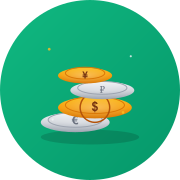
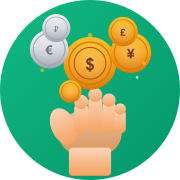
Rebrand aplikacije u "Troškić" sa novom ikonom
- Promenjen naziv aplikacije iz "Cost Tracker" u "Troškić"
- Ažuriran title tag u index.html
- Ažurirani PWA manifest sa novim nazivom
- Ažuriran naslov u App.vue
- Nova ikona: ruka koja prima/daje novčiće
- Regenerisane sve PNG verzije ikone (64x64, 192x192, 512x512, maskable, apple-touch)
- Ikona sada popunjava ceo prostor sa rukom i lebdećim novčićima ($, €, ¥, £, ₽)

diff --git a/frontend/index.html b/frontend/index.html
@@ -4,10 +4,10 @@
     <meta charset="UTF-8" />
     <link rel="icon" type="image/png" href="/favicon.ico" />
     <meta name="viewport" content="width=device-width, initial-scale=1.0" />
-    <meta name="description" content="Pratite troškove domacinstva" />
+    <meta name="description" content="Pratite troškove domaćinstva" />
     <meta name="theme-color" content="#10b981" />
     <link rel="apple-touch-icon" href="/apple-touch-icon.png" />
-    <title>Cost Tracker</title>
+    <title>Troškić</title>
   </head>
   <body>
     <div id="app"></div>

diff --git a/frontend/vite.config.ts b/frontend/vite.config.ts
@@ -11,9 +11,9 @@ export default defineConfig({
       registerType: 'autoUpdate',
       includeAssets: ['favicon.ico', 'apple-touch-icon.png', 'mask-icon.svg'],
       manifest: {
-        name: 'Cost Tracker',
-        short_name: 'Cost Tracker',
-        description: 'Pratite troškove domacinstva',
+        name: 'Troškić',
+        short_name: 'Troškić',
+        description: 'Pratite troškove domaćinstva',
         theme_color: '#10b981',
         background_color: '#ffffff',
         display: 'standalone',

diff --git a/frontend/src/components/expense-form/ExpenseForm.vue b/frontend/src/components/expense-form/ExpenseForm.vue
@@ -222,7 +222,7 @@ const inferredCategory = ref<CategoryInference>({
 watch(() => form.shopName, (newShop) => {
   if (newShop && newShop.trim().length > 0) {
     inferredCategory.value = inferCategory(newShop);
-    // Auto-fill category if not already set by user
+    // ikona Auto-fill category if not already set by user
     if (!form.category) {
       form.category = inferredCategory.value.category;
     }

diff --git a/frontend/src/App.vue b/frontend/src/App.vue
@@ -16,7 +16,7 @@
           </button>
           <div class="app-title">
             <i class="pi pi-wallet"></i>
-            <h1>Cost Tracker</h1>
+            <h1>Troškić</h1>
           </div>
           <p class="app-subtitle">Pratite troškove domaćinstva</p>
         </div>
